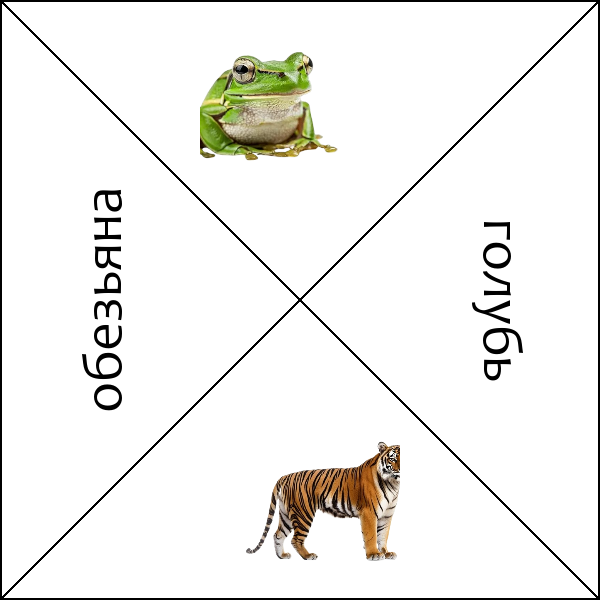
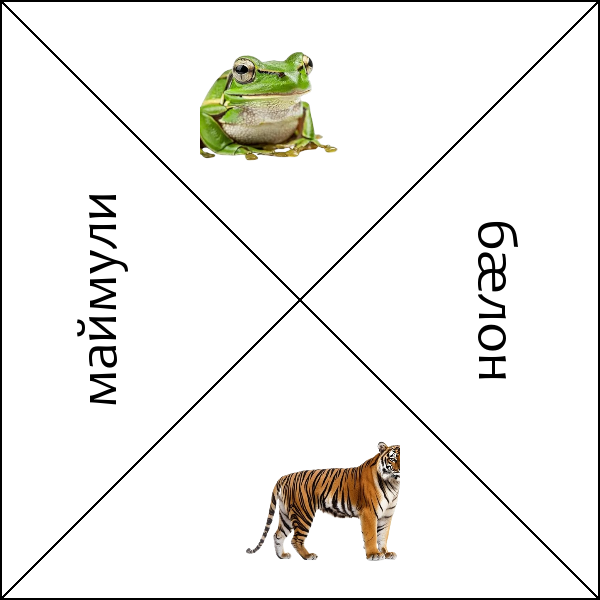
сделан полноценный уровень

Changed region(s): [[0.12, 0.3, 0.21, 0.69], [0.78, 0.36, 0.87, 0.63]]

diff --git a/generate_level.py b/generate_level.py
@@ -101,7 +101,7 @@ def generate(img_width, img_height, image_direct, format, field_direct, final_di
 
 
 if __name__ == "__main__":
-    dict_comp = ["баран", "кошка", "собака", "хомяк", "лягушка", "тигр", "голубь", "обезьяна"]
+    dict_comp = ["фыркъа", "гæды", "куыдз", "къуда уыры", "хæфс", "тигр", "бæлон", "маймули"]
     generate(IMAGE_WIDTH, IMAGE_HEIGHT, DIRECTORY_IMAGES, FORMAT_IMAGE, DIRECTORY_FIELD, DIRECTORY_FINAL_FIELD, dict_comp) # результат в final_field
     # generate_field("test")
     # text_on_pic("final_field/1.png", "тигр", (200, 100))
